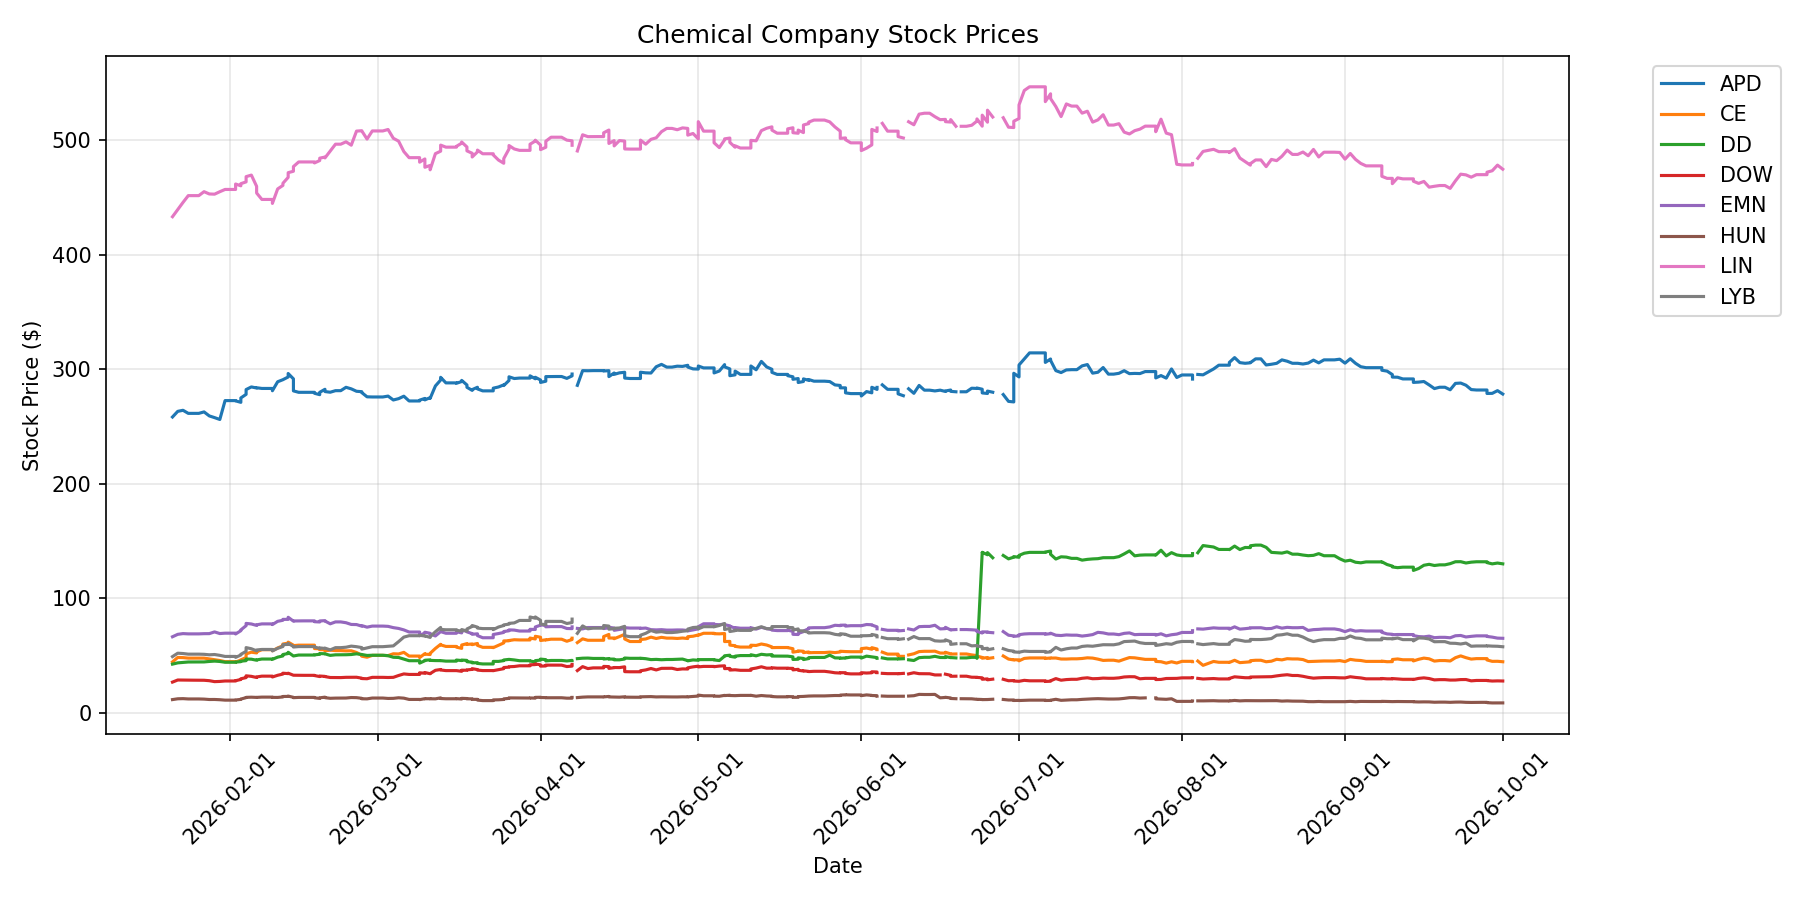
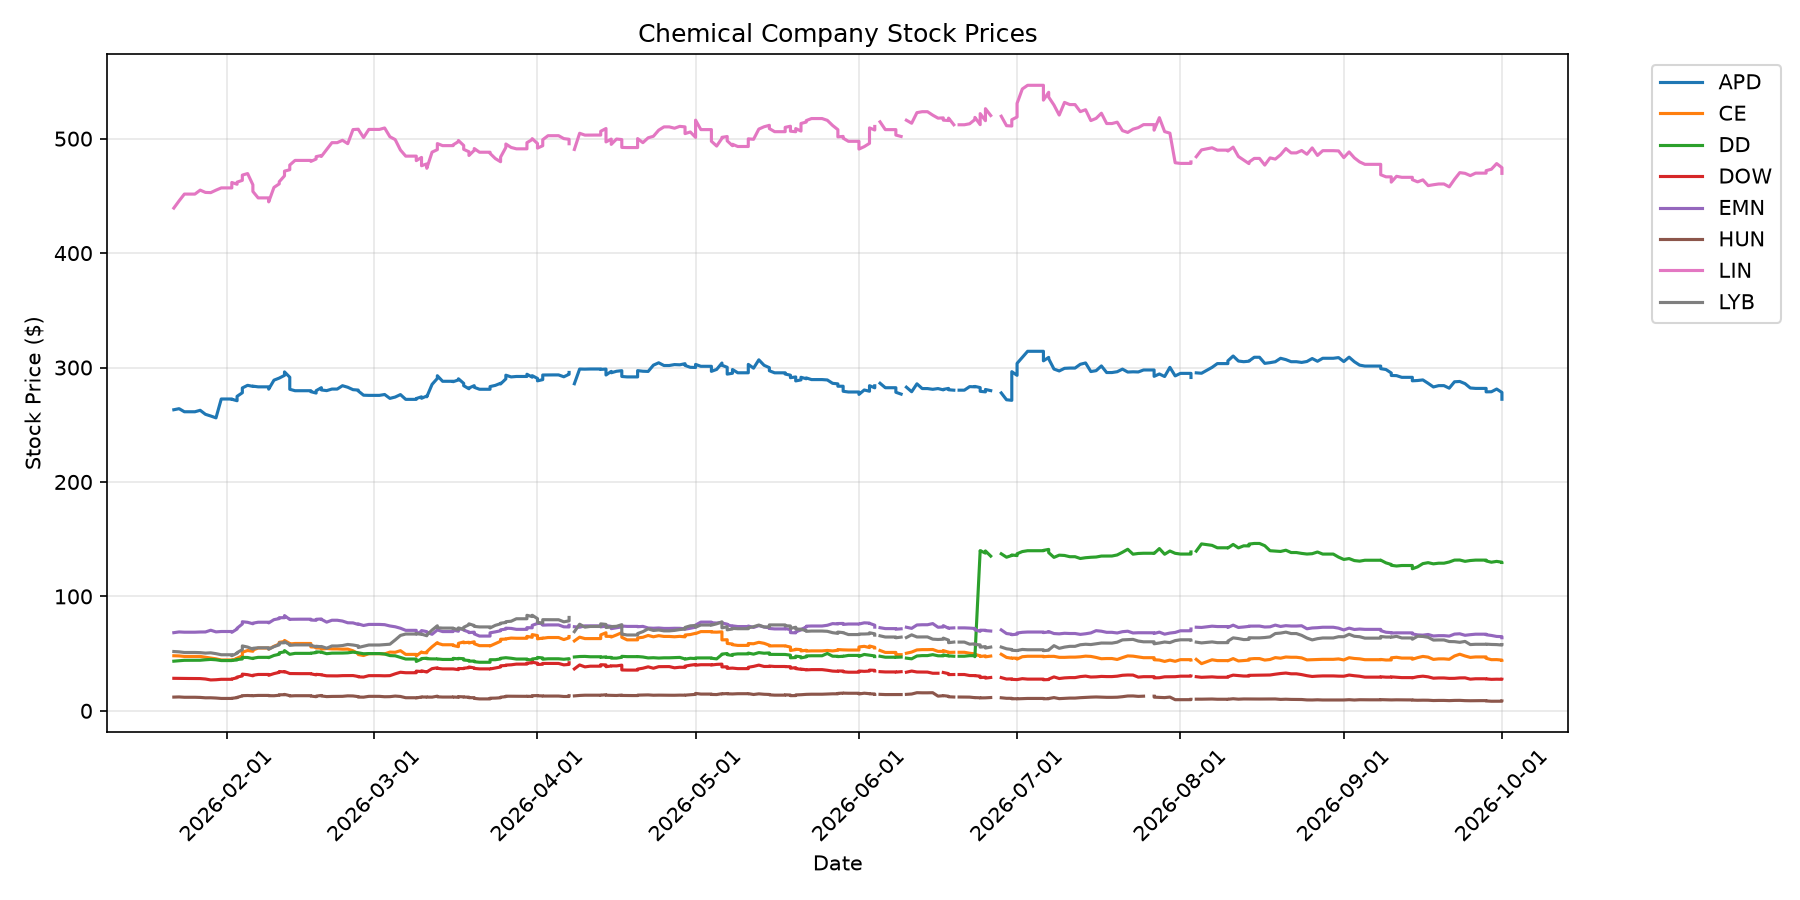
Daily price update: 2026-10-01

diff --git a/README.md b/README.md
@@ -8,23 +8,23 @@ Automated daily tracking of chemical commodity prices and chemical company stock
 
 | Commodity | Price | Change (24h) | Unit |
 |-----------|-------|--------------|------|
-| WTI Crude Oil | $88.83 | -1.59 (-1.76%) | $/barrel |
-| Brent Crude Oil | $96.57 | -6.96 (-6.72%) | $/barrel |
-| Natural Gas | $2.98 | -0.05 (-1.65%) | $/MMBtu |
-| Heating Oil | $4.61 | -0.35 (-7.03%) | $/gallon |
+| WTI Crude Oil | $92.96 | +2.54 (+2.81%) | $/barrel |
+| Brent Crude Oil | $102.43 | -1.10 (-1.06%) | $/barrel |
+| Natural Gas | $2.96 | -0.07 (-2.18%) | $/MMBtu |
+| Heating Oil | $4.64 | -0.32 (-6.45%) | $/gallon |
 
 ### Chemical Company Stocks
 
 | Company | Ticker | Price | Change (24h) |
 |---------|--------|-------|--------------|
-| Dow Inc. | DOW | $27.54 | -0.07 (-0.25%) |
-| LyondellBasell | LYB | $57.47 | -0.71 (-1.22%) |
-| DuPont | DD | $129.89 | -0.23 (-0.18%) |
-| Air Products | APD | $278.23 | -0.96 (-0.34%) |
-| Linde | LIN | $474.65 | +1.28 (+0.27%) |
-| Eastman Chemical | EMN | $64.84 | -0.91 (-1.38%) |
-| Celanese | CE | $44.37 | -0.47 (-1.05%) |
-| Huntsman | HUN | $8.40 | +0.02 (+0.24%) |
+| Dow Inc. | DOW | $27.57 | +0.02 (+0.09%) |
+| LyondellBasell | LYB | $57.92 | +0.45 (+0.78%) |
+| DuPont | DD | $129.64 | -0.25 (-0.19%) |
+| Air Products | APD | $272.29 | -5.94 (-2.13%) |
+| Linde | LIN | $469.69 | -4.96 (-1.04%) |
+| Eastman Chemical | EMN | $63.88 | -0.96 (-1.48%) |
+| Celanese | CE | $44.22 | -0.15 (-0.34%) |
+| Huntsman | HUN | $8.60 | +0.20 (+2.32%) |
 
 ## Data Sources
 

diff --git a/logs/update_log.md b/logs/update_log.md
@@ -387,3 +387,4 @@ Daily updates to the chemical engineering data repository.
 - **2026-09-29 18:58:50**: Updated 4 energy prices, 8 stocks, 0 FRED series
 - **2026-09-30 18:43:02**: Updated 4 energy prices, 8 stocks, 0 FRED series
 - **2026-10-01 01:46:32**: Updated 4 energy prices, 8 stocks, 0 FRED series
+- **2026-10-01 19:07:25**: Updated 4 energy prices, 8 stocks, 0 FRED series
